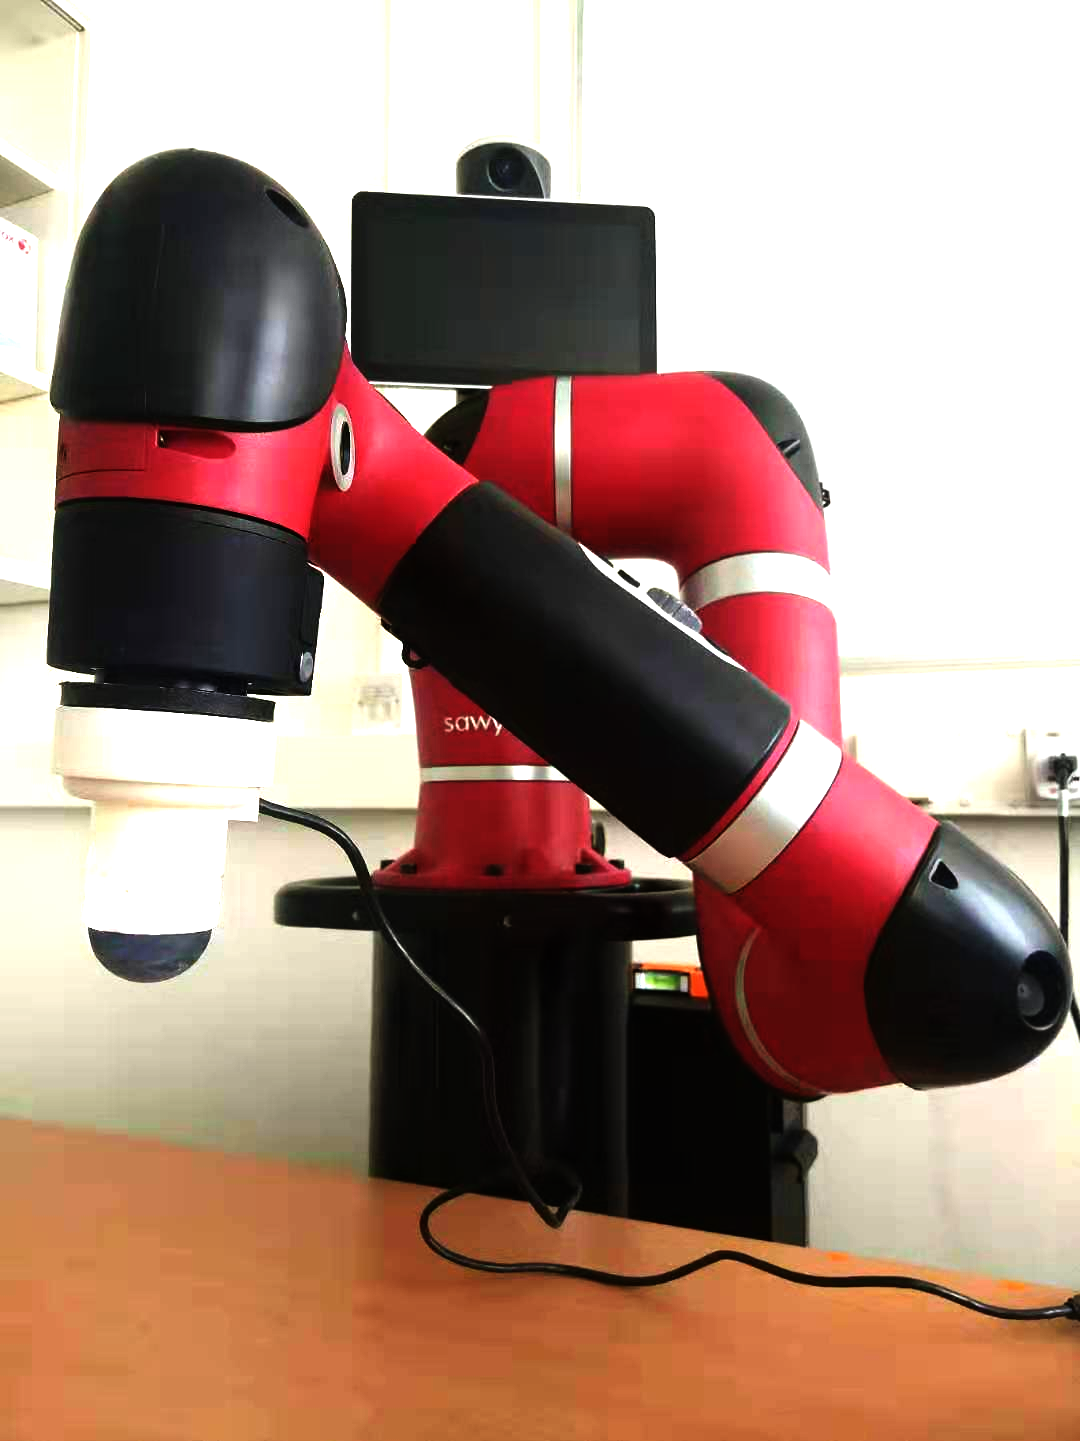
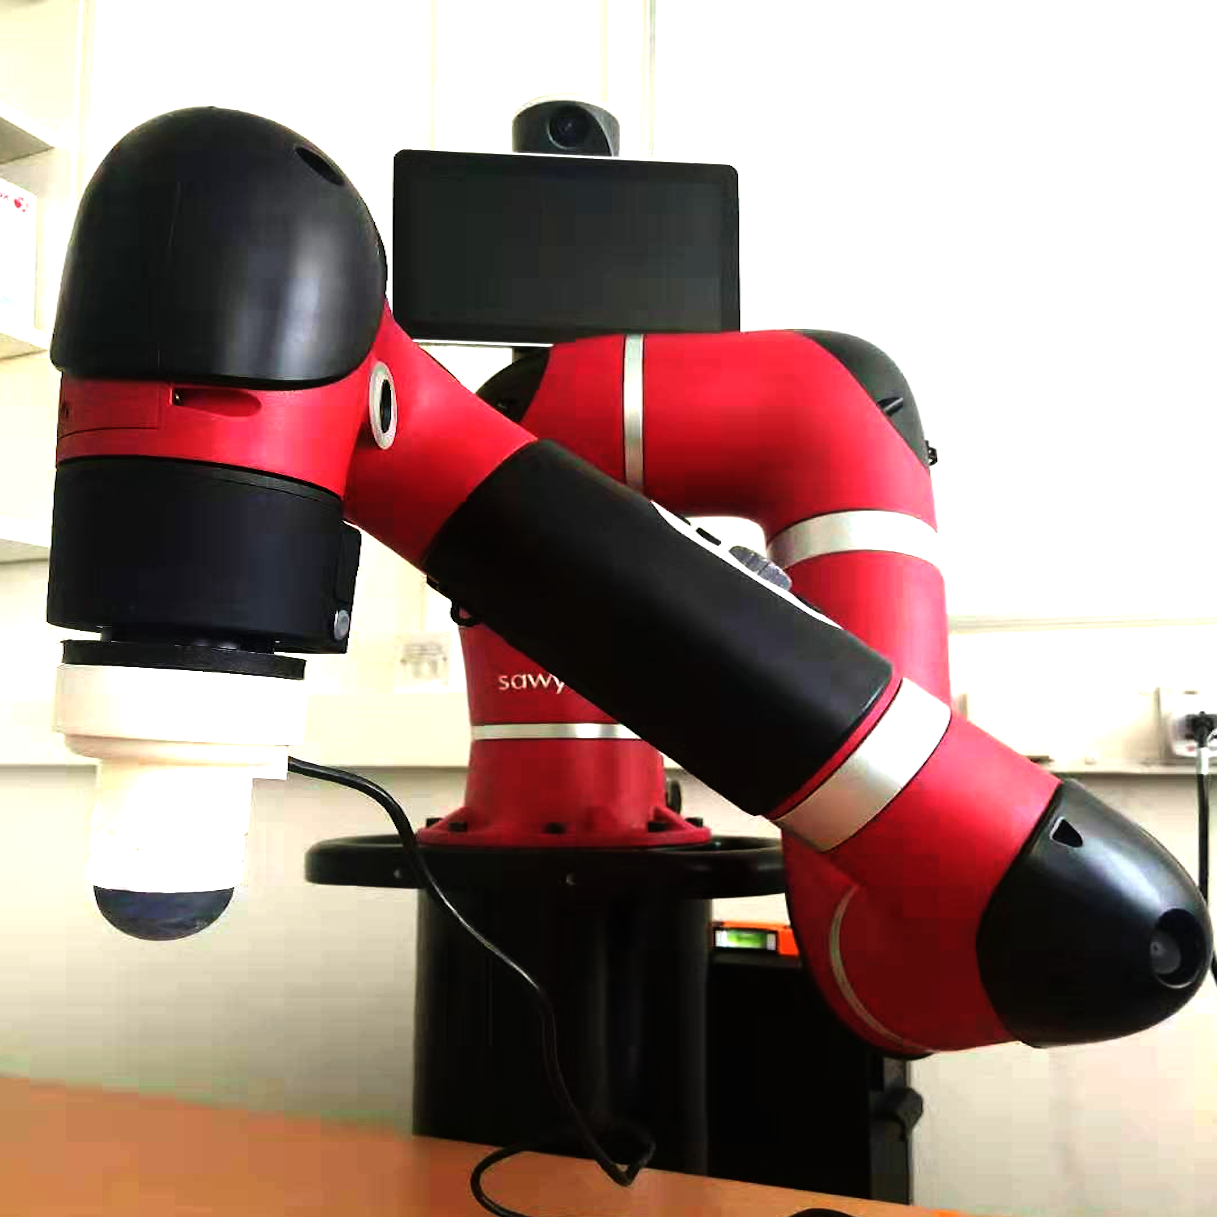
resize image

diff --git a/index.html b/index.html
@@ -129,12 +129,22 @@
 		margin-bottom: 5px;
 		border: 0px solid black
 	}
+	img.teaser_img_narrow {
+		width: 276px;
+		height: 216px;
+		display: block;
+    margin-left: auto;
+    margin-right: auto;
+		margin-top: 5px;
+		margin-bottom: 5px;
+		border: 0px solid black
+	}
 	img.photo_of_me {
 		border-radius: 20px;
 	}
 	div.teaser_img_div {
-		width: 286px;
-		height: 286px;
+		width: 280px;
+		height: 240px;
 	}
 
 
@@ -260,7 +270,7 @@
 
   <tr><td class="sub_heading">Selected Papers<hr></td></tr>
   <tr>
-	<td class="pub_td1"><div class="teaser_img_div"><img class="teaser_img" src='images/paper/2020iros_sim2real.png'/></a></div></td>
+	<td class="pub_td1"><div class="teaser_img_div"><img class="teaser_img_narrow" src='images/paper/2020iros_sim2real.png'/></a></div></td>
 	<td class="pub_td2"><b>Bridging the Gap: A Deep Dive into Zero-Shot Sim-to-Real Transfer for Dynamics</b><br>Eugene Valassakis, Zihan Ding and Edward Johns<br>.<br>
 </td></tr>
 
@@ -290,7 +300,7 @@
   </td></tr>
 
 	<tr>
-	 <td class="pub_td1"><div class="teaser_img_div"><a href="https://openreview.net/forum?id=BJl846ey97"><img class="teaser_img" src='images/paper/2019nips_transportation.png'/></a></div></td>
+	 <td class="pub_td1"><div class="teaser_img_div"><a href="https://openreview.net/forum?id=BJl846ey97"><img class="teaser_img_narrow" src='images/paper/2019nips_transportation.png'/></a></div></td>
 	 <td class="pub_td2"><b>Deep Reinforcement Learning for Intelligent Transportation Systems</b><br>Xiao-Yang Liu, Zihan Ding, Sem Borst, Anwar Walid<br><i>NeurIPS Workshop on Machine Learning for Intelligent Transportation Systems 2018</i>.<br>[<a href="https://openreview.net/forum?id=BJl846ey97">Paper</a>]
 				[<a href="https://github.com/quantumiracle/DQN_traffic_light_control">Code</a>]
   </td></tr>
